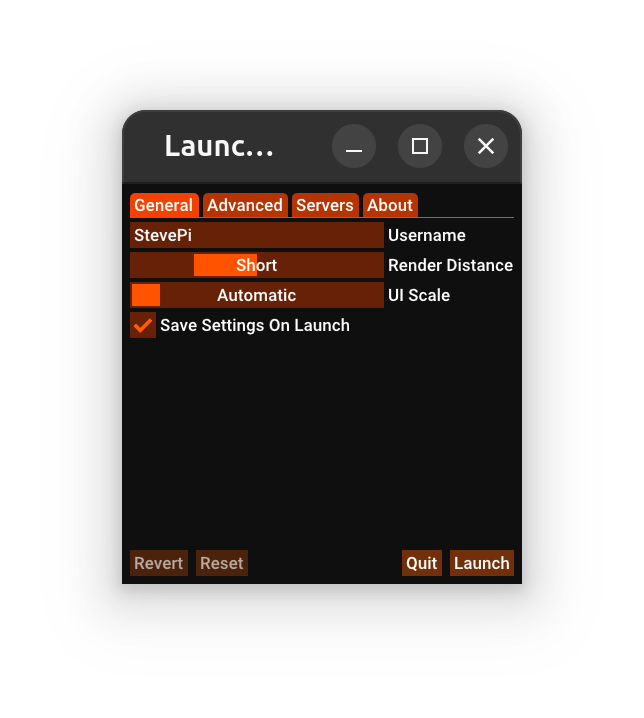
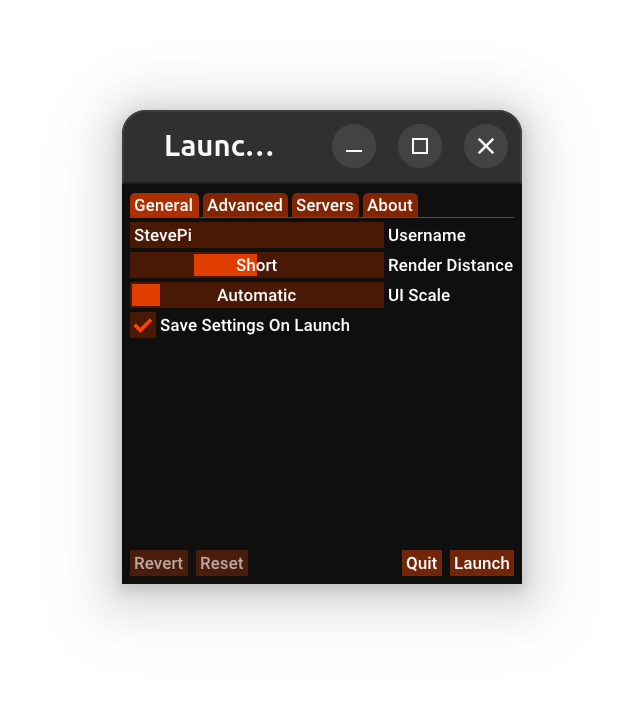
Adjust Launcher Colors

Changed region(s): [[0.1863, 0.2451, 0.6522, 0.4903]]

diff --git a/launcher/src/ui/color.cpp b/launcher/src/ui/color.cpp
@@ -1,35 +1,22 @@
 #include "frame.h"
 
-// Calculate Perceived Brightness Of Color
-// See: https://en.wikipedia.org/w/index.php?title=Relative_luminance&useskin=vector
-static float compute_luma(const ImVec4 &color) {
-    return (0.2126f * color.x) + (0.7152f * color.y) + (0.0722f * color.z);
-}
-
-// Apply Luma To RGB
-static float clamp(const float value) {
-    return std::max(0.0f, std::min(value, 1.0f));
-}
-static ImVec4 apply_luma_to_color(const float target_luma, const ImVec4 &color) {
-    const float current_luma = compute_luma(color);
-    const float luma_ratio = (current_luma != 0) ? target_luma / current_luma : 0;
-    ImVec4 out = color;
-    for (float *x : {&out.x, &out.y, &out.z}) {
-        *x = clamp(*x * luma_ratio);
-    }
-    return out;
-}
-
 // Blend Color
-static ImVec4 blend_color(const ImVec4 &top, const ImVec4 &bottom) {
-    const float luma = compute_luma(bottom);
-    ImVec4 out = apply_luma_to_color(luma, top);
-    out.w = bottom.w;
-    return out;
+template <void (*func)(float, float, float, float &, float &, float &)>
+static void convert_color(ImVec4 &color) {
+    func(color.x, color.y, color.z, color.x, color.y, color.z);
 }
-static ImVec4 blend_with_primary(const ImVec4 &color) {
-    static constexpr ImVec4 primary_color = {1.0f, (69.0f / 255.0f), 0.0f, 1.0f};
-    return blend_color(primary_color, color);
+static ImVec4 blend_with_primary(ImVec4 color) {
+    // Convert New Primary Color To HSV
+    ImVec4 primary_color = {1.0f, (69.0f / 255.0f), 0.0f, 0.0f};
+    convert_color<ImGui::ColorConvertRGBtoHSV>(primary_color);
+    // Convert Input To HSV
+    convert_color<ImGui::ColorConvertRGBtoHSV>(color);
+    // Modify Color
+    color.x = primary_color.x;
+    color.y = primary_color.y;
+    // Output
+    convert_color<ImGui::ColorConvertHSVtoRGB>(color);
+    return color;
 }
 
 // Modify Colors
